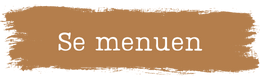
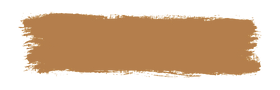
forside færdig!

Changed region(s): [[0.0, 0.075, 1.0, 0.95], [0.3692, 0.45, 0.8, 0.65], [0.2154, 0.4, 0.3385, 0.65]]

diff --git a/index.html b/index.html
@@ -10,6 +10,8 @@
     <link rel="preconnect" href="https://fonts.gstatic.com" crossorigin>
     <link href="https://fonts.googleapis.com/css2?family=Dosis&display=swap" rel="stylesheet">
     <link rel="stylesheet" href="https://use.typekit.net/uuo4xws.css">
+    <link href="https://fonts.googleapis.com/css2?family=Flamenco&display=swap" rel="stylesheet">
+    <link href="https://fonts.googleapis.com/css2?family=Cutive&display=swap" rel="stylesheet">
 
 </head>
 <body>
@@ -55,8 +57,11 @@
             <div class="tekstboks">
                 <h1> Street Coffee</h1>
                 <p>Velkommen til Street Coffee, du finder <br> os på vores 4 caféer i hjertet af Aarhus. </p>
-                <a href="#" class="knap"> <img src="images/læsmere.png" alt="læs mere knap"> </a>
+                <div id="læsmereboks"> 
+                <a href="omos.html"><img src="images/læsmere.png" /><span>Læs mere!</span></a>
+                </div>
             </div>
+
             <div class="billedeboks">
                 <img src="images/kaffe.jpg" alt="kaffe">
             </div>
@@ -64,7 +69,7 @@
 
 
             <section class="baggrundsfarve">    
-                <h2> Vores caféer</h2>
+                <p> Vores caféer</p>
                 <section class="vorescafeer">
                     
                     <div>
@@ -93,21 +98,26 @@
             </div>
             <div class="tekstboks">
                 <h1>Studierabat</h1>
-                <p>Tag dit studiekort under armen og få <br> 10% hos os.</p>
-                <a href="#" class="knap"> <img src="images/semenuen.png" alt="se menuen knap"> </a>
+                <p>Tag dit studiekort under armen  <br>og få 10% hos os.</p>
+                <div id="læsmereboks"> 
+                    <a href="menu.html"> <img src="images/semenuen.png"><span>Se menuen</span></a>
+                </div>
             </div>
+
+             
+
         </section>
 
         <section class="baggrundscolor"> 
             <section class="ikoner"> 
                 <div>
-                    <a href="#"> <img src="images/pladeafspiller.png" alt="pladeafspiller"> </a>
+                    <a href="shop.html"> <img src="images/pladeafspiller.png" alt="pladeafspiller"> </a>
                     <div id="ikonteksthej">
                         <a href="shop.html">Besøg webshoppen</a>
                     </div>
                 </div>
                 <div>
-                    <a href="#"> <img src="images/coffee.png" alt="coffee"> </a>
+                    <a href="menu.html"> <img src="images/coffee.png" alt="coffee"> </a>
                     <div id="ikonteksthej">
                         <a href="menu.html">Se menuen</a>
                     </div>
@@ -128,9 +138,12 @@
             <div class="tekstboks">
                 <h2>Tilmeld dig vores nyhedsbrev</h2>
                 <p>Tilmeld dig vores nyhedsbrev, og bliv <br> opdateret på vores nyeste events.</p>
-                <form id="nyhedafsnit" action="nyhedsbrev.html">  <!--nyhedsbrev -->
-                    <input class="mailbox" placeholder="Indtast din e-mail" name="seach">
-                    <button class="sendbutton">Send</button>
+                <div id="indtastmail">
+                <form action="nyhedsbrev.html">  <!--nyhedsbrev -->
+                    <input class="mailbox1" placeholder="Indtast din e-mail" name="seach">
+                    <button class="sendbutton1">Send</button>
+                </div>
+
                 </form>
             </div>
         </section>
@@ -175,11 +188,6 @@
             <div>
                 <h1>Følg os</h1>  <!--Fjerde container -->
                 <a href="https://www.facebook.com/StreetCoffeedk/"><img src="images/fbpx45.png" alt="fb">
-                <a href="https://www.instagram.com/streetcoffeedk/?hl=da"><img src="images/insta45.png" alt=instra></a>
-                <p >
-                Cookie- & Privatlivspolitik <br>
-                Services    
-                </p>
                 <a href="https://www.instagram.com/streetcoffeedk/?hl=da"><img src="images/instapx45.png" alt=instra></a> <br>
                 <a id="somelink" href="#">Cookie- & Privatlivspolitik<br>
                     Services    </a>

diff --git a/style.css b/style.css
@@ -24,12 +24,14 @@ header div{
     width: 33%;
 }
 
-.headerlogo img{
+.headerlogo img
+{
     display: flex;   
     justify-content: center;
     align-items: center;
     margin-left: auto;
     margin-right: auto;
+    display: block;
 }
 
 .socialmedia{
@@ -70,16 +72,14 @@ header div{
     color:white;
 }
 
-#navLaptop a:hover {
-    background-color: tan;
+#navLaptop a:hover 
+{
+    text-decoration: underline;
 }
 
 #navMobile > a > img{
     width:100%; 
 }
-/*--------------------------------------------------------------------/*
-
-
 
 
 /*--------------------------------------------------------------------/*
@@ -112,14 +112,12 @@ header div{
 .billedeboks 
 {
     width: 50%;
-
 }
 
 .billedeboks img
 {
     width: 100%;
     display: block;
-
 }
 
 /*placeringen af teksten øverst i main*/
@@ -128,8 +126,39 @@ header div{
     width: 50%;
     margin-top: auto;
     margin-bottom: auto;
+    
 }
 
+.tekstboks a 
+{
+    position: relative;
+    display: inline-block;
+}
+
+#læsmereboks
+{
+    margin-top: 20px;
+}
+.tekstboks a span
+{
+    width: 100%;
+    color: white;
+    font-size: 18pt;
+    font-family: 'Cutive', serif;
+    position: absolute;
+    top: 50%;
+    left: 50%;
+    -ms-transform: translate(-50%, -70%);
+    transform: translate(-50%, -70%);
+    display: inline-block;
+}
+
+#læsmere
+{
+    color:black;
+    position: relative;
+    display: inline-block;
+}
 /*layout af teksten øverst i main*/
 .om h1{
     color: #bb7700;
@@ -150,38 +179,27 @@ header div{
     
 }
 
-/*placeringen af knap*/
-.knap {
-    padding-top: 20px;
-    margin-left: 350px;
-}
-
-.knap img{
-    margin-top: 50px;
-}
 
 .baggrundsfarve{
     background-color: #e6dfd6;
     padding-left: 80px;
-    margin: 0;
+    height: 500px;
 }
 
 /* flexbox til billederne i afsnittet vores cafeer*/
 .vorescafeer{
     display: flex;
     justify-content: space-around;
+    margin-top: 20px;
 }
 
 /*layout på "vores cafeer" overskrift*/
-.baggrundsfarve h2{
+.baggrundsfarve p
+{   padding-top: 30px;
     color: #764207;
-    font-size: 24pt;
+    font-size: 23pt;
     font-family: myriad-pro, sans-serif;
-    font-weight: 700;
-    font-style: normal;
-    margin-top: 30px;
-    margin-bottom: 30px;
-   
+    font-weight: 900;
 }
 
 /*cafe skiltene der går ind over cafe billederne*/
@@ -230,9 +248,9 @@ header div{
 
 .ikoner div div a{
     color: #764207;
-    font-size: 18pt;
+    font-size: 20pt;
     font-family: myriad-pro, sans-serif;
-    font-weight: 700;
+    font-weight: 900;
     display: flex;
     justify-content: center;
 }
@@ -257,36 +275,44 @@ header div{
 
 }
 
+
 #nyhedafsnit{
     margin-top: 40px;
     margin-left: 240px;
 }
 
-.mailbox
+#indtastmail
 {
-    padding: 6px;
-    margin-top: 8px;
-    font-size: 10px;
+    margin-top: 20px;
+    display: flex;
+    justify-content: center;
+}
+
+.mailbox1
+{
+    padding: 15px;
+    font-size: 15px;
     transition: 0.6s;
-    font-size: 12pt;
-    border-radius: 15px 0px 0px 15px;
+    font-size: 15pt;
+    border-radius: 5px 0px 0px 5px;
     border: none;
     outline: none;
     background-color: #e6dfd6;
-
 }
 
-.sendbutton
+
+.sendbutton1
 {
     background-color: #e6dfd6;
-    font-size: 16px;
-    padding: 7px 15px;
-    border-radius: 0px 15px 15px 0px;
+    font-size: 15pt;
+    padding: 15px;
+    border-radius: 0px 5px 5px 0px;
     cursor: pointer;
     text-align: center;
     color: black;
     border: none;
     outline: none;
+
 }
 
 .nyhedsbrevbody
@@ -346,20 +372,22 @@ footer
     background-color: #764207;
     font-family: 'Nanum Gothic', sans-serif;
     color: white;
-    height: 300px;
+    height: 360px;
 }
 
 footer section
 {
     display: flex;
-    margin-top: 50px;
+    margin-top: 30px;
     justify-content: space-evenly;
     flex-direction: row;
     gap: 5%;
 }
 
+
 footer section div h1
 {
+    margin-top: 60px;
     font-size: 15pt;
     color: white;
 }
